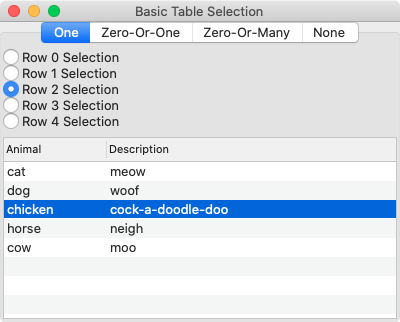
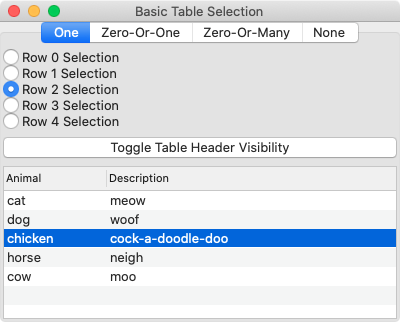
Add all Mac screenshots for Basic Table Selection example

Changed region(s): [[0.0, 0.4348, 1.0, 0.8696]]

diff --git a/docs/examples/GLIMMER-DSL-LIBUI-BASIC-EXAMPLES.md b/docs/examples/GLIMMER-DSL-LIBUI-BASIC-EXAMPLES.md
@@ -1521,6 +1521,10 @@ ruby -r glimmer-dsl-libui -e "require 'examples/basic_table_selection'"
 ```
 
 ![glimmer-dsl-libui-mac-basic-table-selection-one.png](/images/glimmer-dsl-libui-mac-basic-table-selection-one.png)
+![glimmer-dsl-libui-mac-basic-table-selection-zero-or-one.png](/images/glimmer-dsl-libui-mac-basic-table-selection-zero-or-one.png)
+![glimmer-dsl-libui-mac-basic-table-selection-zero-or-many.png](/images/glimmer-dsl-libui-mac-basic-table-selection-zero-or-many.png)
+![glimmer-dsl-libui-mac-basic-table-selection-none.png](/images/glimmer-dsl-libui-mac-basic-table-selection-none.png)
+![glimmer-dsl-libui-mac-basic-table-selection-header-not-visible.png](/images/glimmer-dsl-libui-mac-basic-table-selection-header-not-visible.png)
 
 ## Basic Area
 

diff --git a/TODO.md b/TODO.md
@@ -6,8 +6,10 @@
 - Table column sort indicator databinding
 - Table header visible databinding
 - basic_table_selection2.rb relying on data-binding
+
 - table on_selection_changed provides new selection added in second argument (could be useful)
-- Automate table sorting support (perhaps via a property, sortable)
+
+- Automate table sorting support (perhaps via a property, sortable, which should default to true)
 
 - Update Supported Controls documentation with allowed parents and allowed children
 - Support overriding global `table` `editable` state with a specific column `editable` state if global value is `true` and column value is `false`
